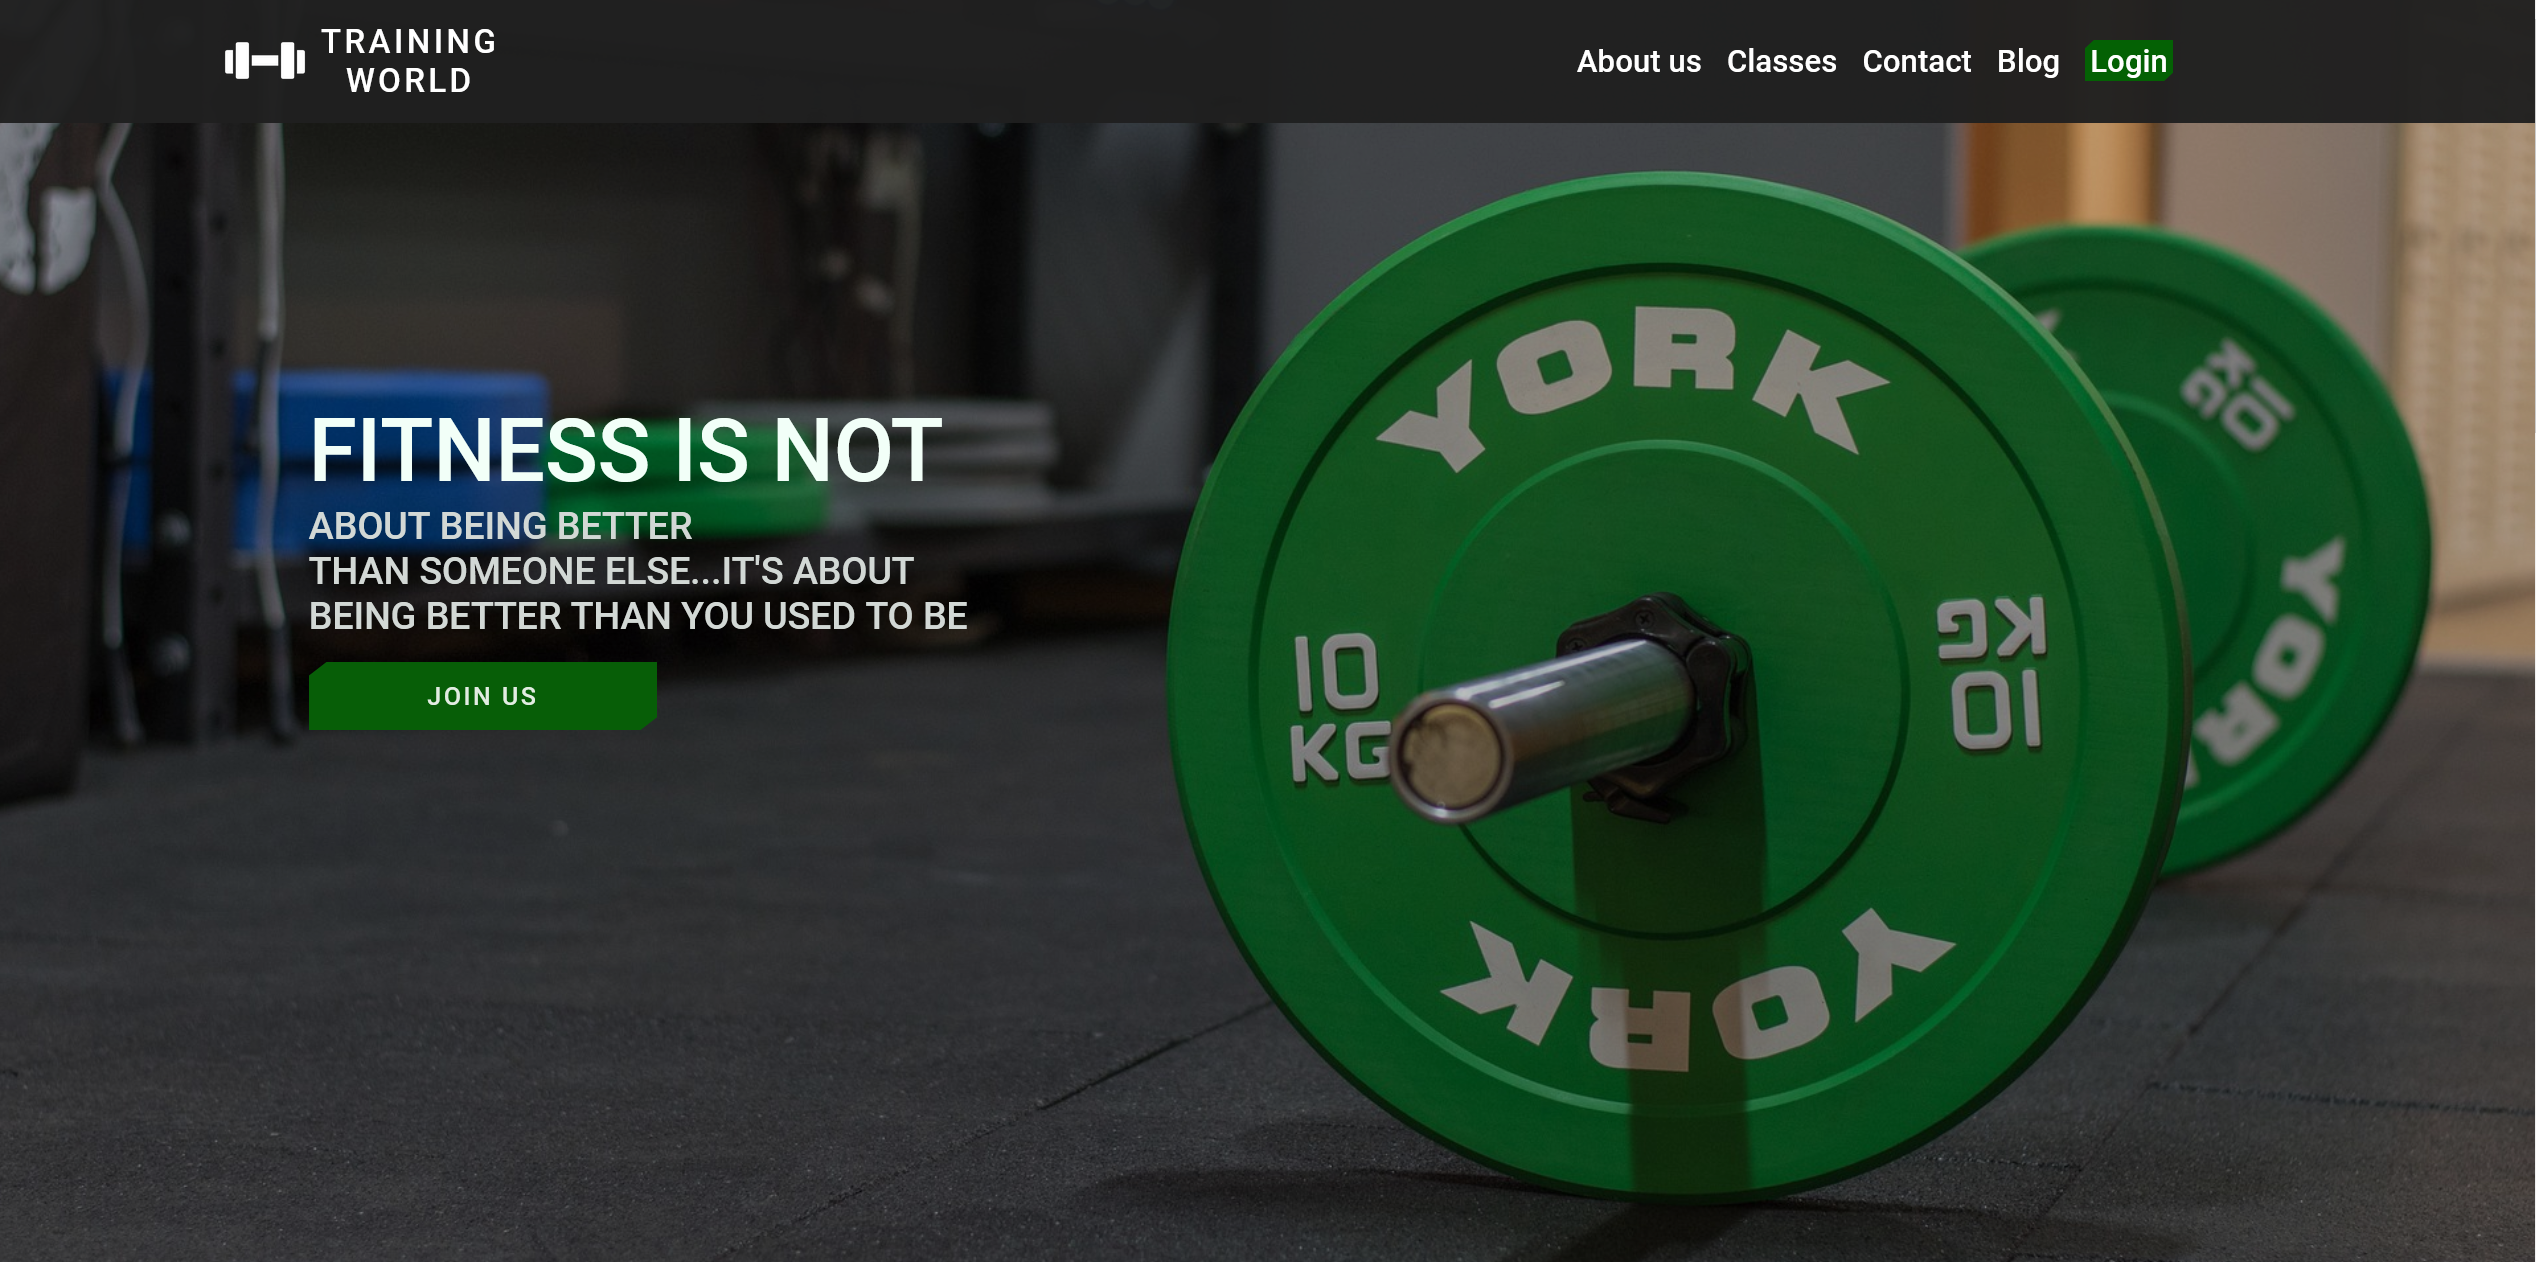
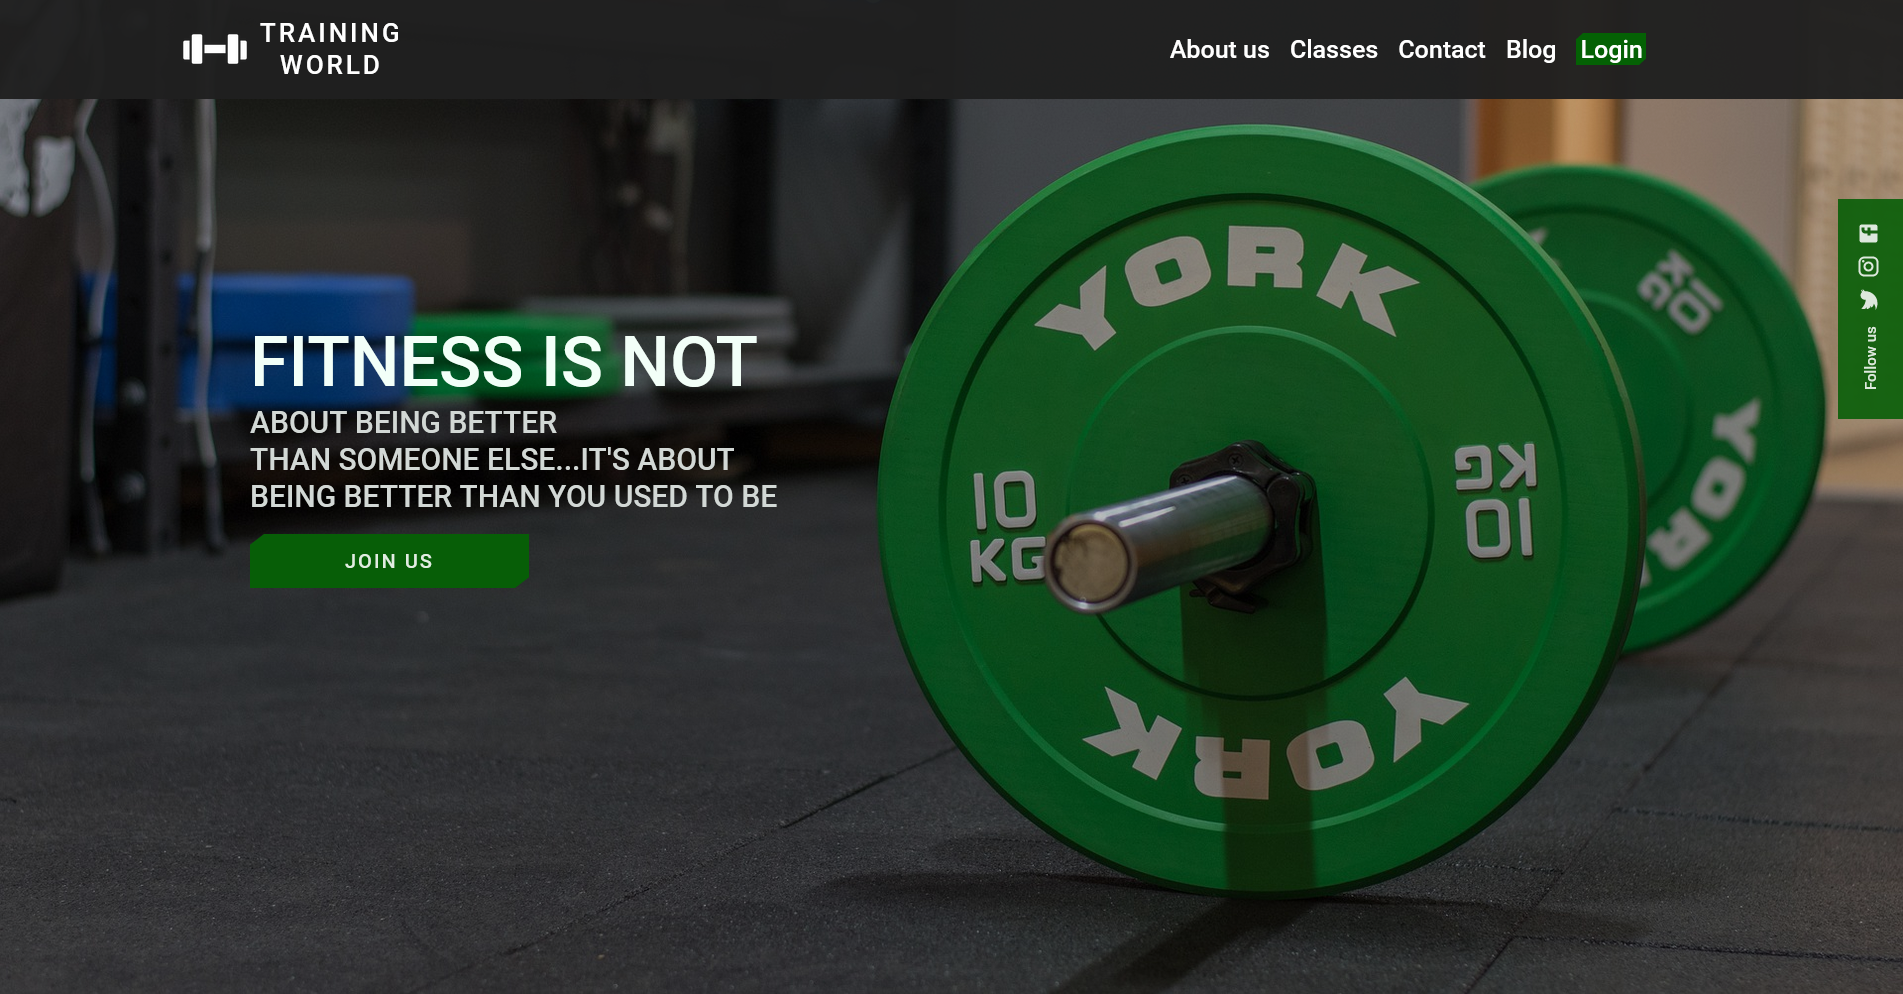
Style changes

diff --git a/frontend/src/components/HomePage.js b/frontend/src/components/HomePage.js
@@ -3,19 +3,18 @@ import { useEffect, useState} from 'react';
 import '../static/css/index.css'
 import Navbar from "./Navbar";
 import Footer from "./Footer";
+import FacebookIcon from '@mui/icons-material/Facebook';
+import InstagramIcon from '@mui/icons-material/Instagram';
+import TwitterIcon from '@mui/icons-material/Twitter';
+import { red } from "@mui/material/colors";
 
-const HomePage = ({userNickname, userEmail, userToken}) => {
+const HomePage = () => {
 
-    const [nickname, setNickname] = useState(userNickname)
-    const [email, setEmail] = useState(userEmail)
-    const [token, setToken] = useState(userToken)
-
-    console.log(nickname)
      
     return(
         <div>
             <div id="main_bg">
-                <Navbar userNickname={nickname}/>
+                <Navbar userNickname={"None"}/>
                 <header>
                     <div className="header__text">         
                         <span className="main__text">
@@ -36,6 +35,31 @@ const HomePage = ({userNickname, userEmail, userToken}) => {
                         </button>
                     </div>       
                 </header>
+            </div>
+
+            <div id="media">
+                <div id="icons">
+                    <div class="icon" id="fb">
+                        <FacebookIcon
+                        fontSize="medium"
+                        />
+                    </div>
+
+                    <div class="icon">
+                        <InstagramIcon
+                        fontSize="medium"
+                        />
+                    </div>
+
+                    <div class="icon">
+                        <TwitterIcon
+                        fontSize="medium"
+                        />
+                    </div>
+                </div>
+                <div id="media_text">
+                    <span>Follow us</span>
+                </div>
             </div>
             
             <main>

diff --git a/frontend/src/components/App.js b/frontend/src/components/App.js
@@ -12,53 +12,13 @@ import Login from "./Login"
 
   function App() {
 
-    // States saving informations about user
-    // If user is not logged in all states are set to "None"
-    const [nickname, setNickname] = useState("None")
-    const [email, setEmail] = useState("None")
-    const [token, setToken] = useState("None")
-
-    const setUserData = (nickname, email, token) =>{
-      setNickname(nickname)
-      setEmail(email)
-      setToken(token)
-    }
-
-    const login = (username, password) => { 
-      console.log(username)
-      console.log(password)
-
-      const requestOptions = {
-        method: 'POST',
-        headers: { 'Content-Type': 'application/json' },
-        body: JSON.stringify({ 
-            email: username,
-            password: password 
-        })
-      }
-
-      fetch('http://127.0.0.1:8000/api/account/login', requestOptions)
-      .then(response => response.json())
-      .then(data => setUserData(
-        data["nickname"],
-        data["email"],
-        data["token"]
-      ))
-    }
-
     return (
 
         <Router>
           <Routes>
-              <Route path="/" element={
-              <HomePage 
-              userNickname={nickname} userEmail={email} userToken={token}/>}
-              />
-              <Route path="/blog" element={<Blog />}></Route>
-              <Route path="/login" element={
-              <Login 
-              nickname={nickname} onLogin={login}/>}
-              />
+              <Route path="/" element={<HomePage/>}/>
+              <Route path="/blog" element={<Blog />}/>
+              <Route path="/login" element={<Login />}/>
           </Routes>
         </Router>
     );

diff --git a/frontend/src/components/Login.js b/frontend/src/components/Login.js
@@ -12,12 +12,41 @@ import Box from '@mui/material/Box';
 import Button from '@mui/material/Button';
 
 
-const Login = ({nickname, onLogin}) => {
+const Login = () => {
     
 
     //  Login fields states
-    const [email, setEmail] = useState("")
-    const [password, setPassword] = useState("")
+    const [email, setEmail] = useState("None")
+    const [nickname, setNickname] = useState("None")
+    const [token, setToken] = useState("None")
+
+    const setUserData = (nickname, email, token) =>{
+      setNickname(nickname)
+      setEmail(email)
+      setToken(token)
+    }
+
+    const login = (username, password) => { 
+      console.log(username)
+      console.log(password)
+
+      const requestOptions = {
+        method: 'POST',
+        headers: { 'Content-Type': 'application/json' },
+        body: JSON.stringify({ 
+            email: username,
+            password: password 
+        })
+      }
+
+      fetch('http://127.0.0.1:8000/account/login', requestOptions)
+      .then(response => response.json())
+      .then(data => setUserData(
+        data["nickname"],
+        data["email"],
+        data["token"]
+      ))
+    }
 
     if (nickname === "None"){
         return(
@@ -45,7 +74,7 @@ const Login = ({nickname, onLogin}) => {
                         </Box>
 
                         <Button id="login__button"size="large" 
-                            onClick={() => onLogin(email, password)}>
+                            onClick={() => login(email, password)}>
                             Login
                         </Button>
                     </div>

diff --git a/frontend/src/static/css/index.css b/frontend/src/static/css/index.css
@@ -44,8 +44,9 @@
 #main_bg{
     height: 52vw;
     background-image:url('../images/bar.jpg');
-    background-color: #000000d2;;
+    background-color: #00000042;
     background-repeat: no-repeat;
+    background-blend-mode: multiply;
     -webkit-background-size: cover;
     -moz-background-size: cover;
     -o-background-size: cover;
@@ -102,10 +103,40 @@ main {
     box-sizing: border-box;
 }
 
+/* Media section */
+
+#media {
+    background-color: rgba(7, 94, 7, 0.893);
+    position: fixed;
+    top: 200px;
+    right: 0%;
+    height: 220px;
+    width: 65px;
+    z-index: 100;
+}
+
+#icons {
+    display: flex;
+    flex-direction: column;
+}
+
+.icon {
+    transform: rotate(270deg);
+    margin-bottom: 5px;
+    color: rgba(255, 255, 255, 0.855);
+}
+
+#media_text {
+    margin-top: 50px;
+    transform: rotate(270deg);
+    font-size: 15px;
+    color:rgba(255, 255, 255, 0.855);
+}
+
 #trainers_section {
     padding: 50px 100px 50px 100px;
     height: 500px;
-    background-color: white;
+    background-color: rgb(255, 255, 255);
 }
 
 #schedule_section {

diff --git a/frontend/src/static/css/login.css b/frontend/src/static/css/login.css
@@ -4,11 +4,14 @@
 }
 
 #login__box{
-    width: 550px;
-    height: 500px;
-    margin: 0 auto 0 auto;
-    background-color: rgba(223, 213, 213, 0.678);
-    border-radius: 40px;
+    cursor: pointer;
+    display: flex;
+    flex-direction: column;
+    text-align: center;
+    color: white;
+    background-color: rgb(4, 97, 4);
+    border-bottom-right-radius: 6px;
+    border-top-left-radius: 6px;
 }
 
 #login__header{
@@ -24,6 +27,14 @@
     height: 75px;
     margin-left: auto;
     margin-right: auto;
+}
+
+#login__click{
+    display: flex;
+    flex-direction: row;
+    text-align: center;
+    align-items: center;
+    padding: 5px 10px 5px 10px;
 }
 
 .login__fields{

diff --git a/frontend/src/static/css/navbar.css b/frontend/src/static/css/navbar.css
@@ -9,7 +9,7 @@
     box-sizing: border-box;
     width: 100%;
     height: 100px;
-    background-color:#1f2123f5;                /* czarny opacity na 0*/
+    background-color:#1f1f1ff5;                /* czarny opacity na 0*/
 }
 
 .logo__navbar {
@@ -92,17 +92,9 @@
     background-color: rgb(4, 97, 4);
     clip-path: polygon(0% 20%, 10% 0%, 100% 0%, 100% 0%, 100% 80%, 90% 100%, 0% 100%, 0% 10%);
     padding: 1px 4px;
+
 }
 
-.navbar__icons img{
-    background-color:rgb(255,255,255, 0.8);
-    width: 50px;
-    height: 50px;
-    border-radius: 30%;
-    margin: 0 5px 0 5px;
-    margin-left: 20px;
-    transition: 0.5s;
-}
 
 .link {
     color: inherit;
